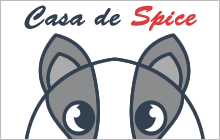
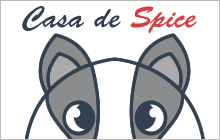
-+

Changed region(s): [[0.0818, 0.0286, 0.5455, 0.2286], [0.5727, 0.0286, 0.9, 0.2286]]

diff --git a/index.html b/index.html
@@ -265,7 +265,7 @@
 	
 		<li>
 			<a href="https://www.spice.casa" target="_blank">
-				<img src="img/placeholders/casa_de_s[ice_2_220_140.svg" alt="">
+				<img src="img/placeholders/casa_de_spice_2_220_140.svg" alt="">
 				<h5 class="title">Spice.casa</h5>
 				<span class="categories"></span>
 			</a>
